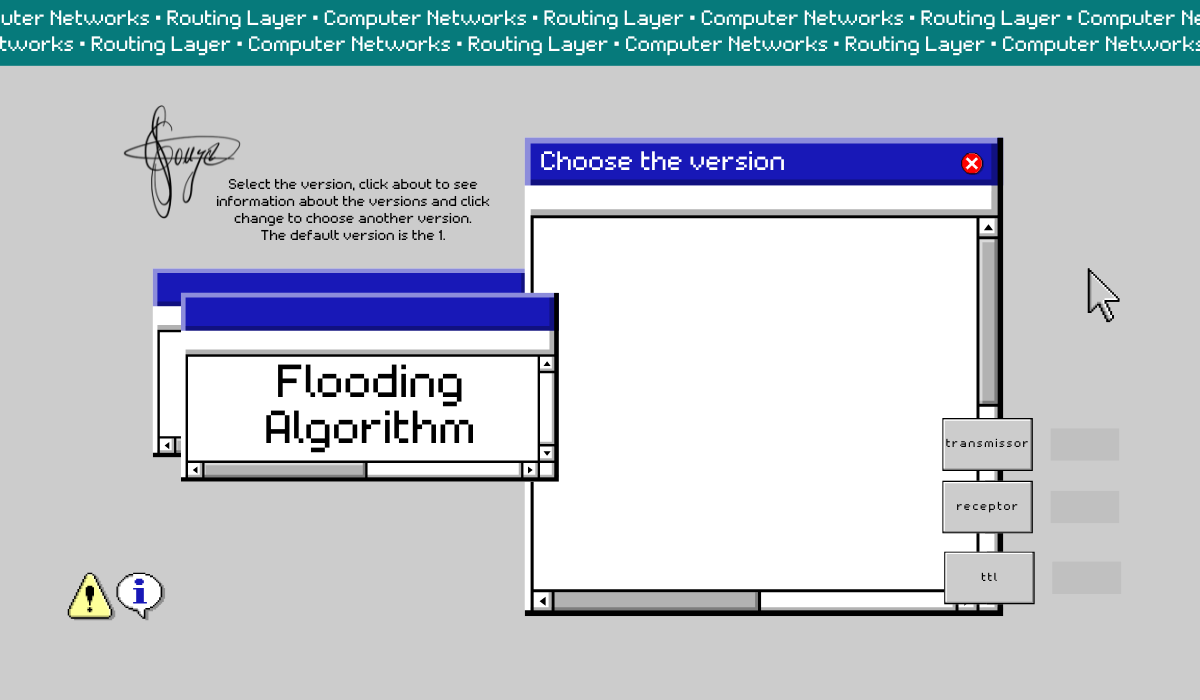
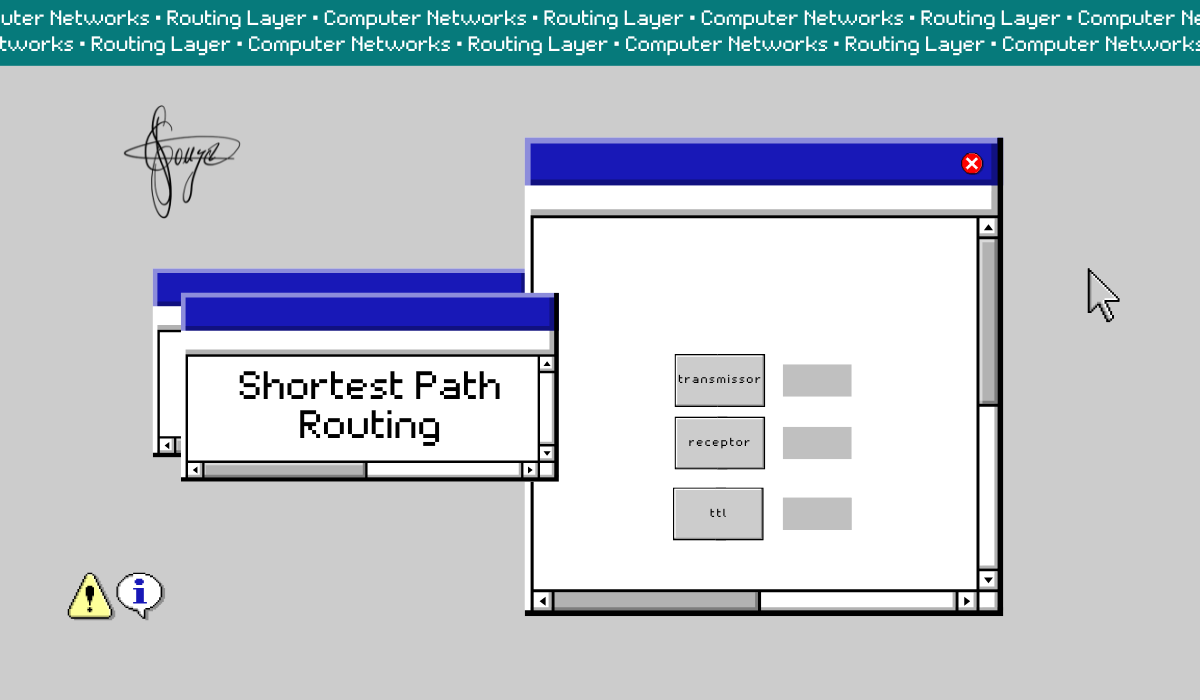
changes in the game view

diff --git a/view/GameView.java b/view/GameView.java
@@ -70,13 +70,35 @@ import controller.GameController;
 import controller.MenuController;
 import util.TopologyReader;
 
+
+/*a_label (109.1, 297.9)
+b_label (234.4, 156.2)
+c_label (910.5, 156.2)
+d_label (1030.9, 287.9)
+e_label (347.1, 287.9)
+f_label (784.6, 287.9)
+g_label (232.8, 432.1)
+h_label (910.5, 423.1)
+
+ab_label (70.0, 161.4)
+bc_label (570.0, 56.6)
+ag_label (70.0, 445.6)
+ge_label (411.6, 423.1)
+be_label (411.6, 174.3)
+gh_label (570.0, 520.7)
+dh_label (1070.1, 445.6)
+cd_label (1070.1, 161.4)
+fe_label (570.0, 228.9)
+fh_label (746.5, 423.1)
+fc_label (743.2, 174.3)*/
+
 public class GameView extends BaseView {
 
   private ImageView router1, router2, router3, router4, router5, router6, router7, router8; // UI Network Endpoints
   private Button startButton, changeButton;                                                 // UI Controls
   private TextArea packetCounterBox;                                                        // UI Monitor box
-  private TextArea router1Label, router2Label, router3Label, router4Label, router5Label, router6Label, router7Label, router8Label;
-  private TextArea linkLabel;
+  private Label router1Label, router2Label, router3Label, router4Label, router5Label, router6Label, router7Label, router8Label;
+  private Label link1Label, link2Label, link3Label, link4Label, link5Label, link6Label, link7Label, link8Label, link9Label, link10Label, link11Label;
 
   /*********************************************************************
    * Method: GameView
@@ -100,35 +122,42 @@ public class GameView extends BaseView {
     router1 = createImageViewElement("/router_icon.png", 63.1, 80.2);
     applyPosition(router1, 38.5, 262.1);
     addElementTo(router1, layout);
-
+    router1Label = createLabel(59.9, 22.5, 109.1, 297.9);
 
     router2 = createImageViewElement("/router_icon.png", 63.1, 80.2);
     applyPosition(router2, 229.6, 70.0);
     addElementTo(router2, layout);
+    router2Label = createLabel(59.9, 22.5, 234.4, 156.2);
 
     router3 = createImageViewElement("/router_icon.png", 63.1, 80.2);
     applyPosition(router3, 907.3, 70.0);
     addElementTo(router3, layout);
+    router3Label = createLabel(59.9, 22.5, 910.5, 156.2);
 
     router4 = createImageViewElement("/router_icon.png", 63.1, 80.2);
     applyPosition(router4, 1098.4, 262.1);
     addElementTo(router4, layout);
+    router4Label = createLabel(59.9, 22.5, 1030.9, 287.9);
 
     router5 = createImageViewElement("/router_icon.png", 63.1, 80.2);
     applyPosition(router5, 420.7, 261.1);
     addElementTo(router5, layout);
+    router5Label = createLabel(59.9, 22.5, 347.1, 287.9);
 
     router6 = createImageViewElement("/router_icon.png", 63.1, 80.2);
     applyPosition(router6, 716.2, 261.1);
     addElementTo(router6, layout);
+    router6Label = createLabel(59.9, 22.5, 784.6, 287.9);
 
     router7 = createImageViewElement("/router_icon.png", 63.1, 80.2);
     applyPosition(router7, 232.8, 452.4);
     addElementTo(router7, layout);
+    router7Label = createLabel(59.9, 22.5, 232.8, 432.1);
 
     router8 = createImageViewElement("/router_icon.png", 63.1, 80.2);
     applyPosition(router8, 910.5, 452.4);
     addElementTo(router8, layout);
+    router8Label = createLabel(59.9, 22.5, 910.5, 423.1);
 
     startButton = createButton("/start_button.png", 182.3, 39.3, 638.3, 627.3);
     addElementTo(startButton, layout);
@@ -143,6 +172,17 @@ public class GameView extends BaseView {
     applyPosition(packetCounterBox, 508.0, 623.0);
     addElementTo(packetCounterBox, layout);
 
+    link1Label = createLabel("[∞, -]", 59.9, 22.5, 70.0, 161.4);
+    link2Label = createLabel("[∞, -]", 59.9, 22.5, 570.0, 56.6);    // bc_label
+    link3Label = createLabel("[∞, -]", 59.9, 22.5, 70.0, 445.6);    // ag_label
+    link4Label = createLabel("[∞, -]",59.9, 22.5, 411.6, 423.1);   // ge_label
+    link5Label = createLabel("[∞, -]",59.9, 22.5, 411.6, 174.3);   // be_label
+    link6Label = createLabel("[∞, -]",59.9, 22.5, 570.0, 520.7);   // gh_label
+    link7Label = createLabel("[∞, -]",59.9, 22.5, 1070.1, 445.6);  // dh_label
+    link8Label = createLabel("[∞, -]",59.9, 22.5, 1070.1, 161.4);  // cd_label
+    link9Label = createLabel("[∞, -]",59.9, 22.5, 570.0, 228.9);   // fe_label
+    link10Label = createLabel("[∞, -]",59.9, 22.5, 746.5, 423.1);  // fh_label
+    link11Label = createLabel("[∞, -]",59.9, 22.5, 743.2, 174.3);  // fc_label
   }
 
   /*********************************************************************

diff --git a/controller/MenuController.java b/controller/MenuController.java
@@ -98,47 +98,6 @@ public class MenuController extends BaseController {
   @Override
   protected void setupInteractions() {
 
-    view.getVersionOneButton().setOnAction(e -> selectVersion(1));
-    view.getVersionTwoButton().setOnAction(e -> selectVersion(2));
-    view.getVersionThreeButton().setOnAction(e -> selectVersion(3));
-    view.getVersionFourButton().setOnAction(e -> selectVersion(4));
-
-    view.getChangeButton().setOnAction(e -> {
-      view.getVersionOneButton().setVisible(true);
-      view.getVersionTwoButton().setVisible(true);
-      view.getVersionThreeButton().setVisible(true);
-      view.getVersionFourButton().setVisible(true);
-      this.selectedVersion = 1;
-    });
-
-    view.getAboutButton().setOnAction(e -> {
-      Alert alert = new Alert(Alert.AlertType.INFORMATION);
-      alert.setTitle("About Algorithm");
-      alert.setHeaderText("Algorithm Version " + selectedVersion);
-
-      String description = "";
-
-      switch (selectedVersion) {
-        case 1:
-          description = "Each packet that arrives in a router is sent to every network interface of this router.";
-          break;
-        case 2:
-          description = "Each packet that arrives in a router is sent to every network interface of this router but the one that it arrived from.";
-          break;
-        case 3:
-          description = "Each packet that arrives in a router is sent to every network interface of this router but the one that it arrived from. And each router checks the TTL to decide if the packet should be send forward.";
-          break;
-        case 4:
-          description = "The source router puts a sequence number in each packet and each router has a list per source router telling which sequence numbers originating at that source have already been seen.\n" +
-            "When a packet comes in, the router checks it on the list, if it finds, it is not flooded and is discarded, if not, it is flooded.";
-          break;
-      }
-
-      alert.setContentText(description);
-      alert.getDialogPane().setMinHeight(Region.USE_PREF_SIZE);
-      alert.showAndWait();
-    });
-
     view.getStartButton().setOnAction(e -> {
       try {
         int transmitterId = view.getTransmissorChoiceBox().getValue();
@@ -155,7 +114,7 @@ public class MenuController extends BaseController {
         }
 
         int ttl = Integer.parseInt(view.getTtlInput().getText());
-        setInterface(new GameController(stage, transmitterId, receptorId, ttl, topology, selectedVersion).getView());
+        setInterface(new GameController(stage, transmitterId, receptorId, ttl, topology).getView());
 
       } catch (NumberFormatException ex) {
         System.out.println("Invalid TTL entered. Defaulting to 10.");
@@ -166,23 +125,9 @@ public class MenuController extends BaseController {
           return;
         }
 
-        setInterface(new GameController(stage, transmitterId, receptorId, 10, topology, selectedVersion).getView());
+        setInterface(new GameController(stage, transmitterId, receptorId, 10, topology).getView());
       }
     });
-  }
-
-  /*********************************************************************
-   * Method: selectVersion
-   * Function: updates internal version state and hides unselected buttons.
-   * Parameters: version is the chosen algorithm integer.
-   * Return: void
-   ******************************************************************* */
-  private void selectVersion(int version) {
-    this.selectedVersion = version;
-    view.getVersionOneButton().setVisible(version == 1);
-    view.getVersionTwoButton().setVisible(version == 2);
-    view.getVersionThreeButton().setVisible(version == 3);
-    view.getVersionFourButton().setVisible(version == 4);
   }
 
   /*********************************************************************

diff --git a/view/MenuView.java b/view/MenuView.java
@@ -72,8 +72,7 @@ import util.TopologyReader;
 
 public class MenuView extends BaseView {
 
-  private Button startButton, changeButton, aboutButton;                              // Basic interaction controls
-  private Button versionOneButton, versionTwoButton, versionThreeButton, versionFourButton; // Algorithm selection
+  private Button startButton;                                                         // Basic interaction controls
   private ChoiceBox<Integer> transmissorChoiceBox, receptorChoiceBox;                 // Origin and Destination inputs
   private ObservableList<Integer> routersLabels = FXCollections.observableArrayList(1, 2, 3, 4, 5, 6, 7, 8); // Selections
   private TextField ttlInput;                                                         // Custom time allowance
@@ -96,50 +95,27 @@ public class MenuView extends BaseView {
    * Return: void
    ******************************************************************* */
   private void setInterfaceElements(){
-    startButton = createButton("start_button.png", 182.3, 50.4, 937.1, 192.5);
+    startButton = createButton("start_button.png", 182.3, 50.4, 672.9, 272.9);
     addElementTo(startButton, layout);
 
-    changeButton = createButton("change_button.png", 182.3, 39.4, 937.1, 360.9);
-    addElementTo(changeButton, layout);
-
-    aboutButton = createButton("about_button.png", 192.3, 39.4, 937.1, 283.4);
-    addElementTo(aboutButton, layout);
-
     transmissorChoiceBox = createIntegerChoiceBox(routersLabels, 69.0, 39.4);
-    applyPosition(transmissorChoiceBox, 1050.4, 428.3);
+    applyPosition(transmissorChoiceBox, 782.8, 364.3);
     addElementTo(transmissorChoiceBox, layout);
 
     receptorChoiceBox = createIntegerChoiceBox(routersLabels, 69.0, 39.4);
-    applyPosition(receptorChoiceBox, 1050.4, 490.8);
+    applyPosition(receptorChoiceBox, 782.8, 426.8);
     addElementTo(receptorChoiceBox, layout);
 
     ttlInput = createTextField("10", 69.0, 32.5);
-    applyPosition(ttlInput, 1052.3, 561.6);
+    applyPosition(ttlInput, 782.8, 497.5);
     addElementTo(ttlInput, layout);
 
-    versionOneButton = createButton("/version_one_icon.png", 124.0,119.1, 610.0, 256.8);
-    addElementTo(versionOneButton, layout);
-
-    versionTwoButton = createButton("/version_two_icon.png", 124.0, 108.2, 777.8, 268.4);
-    addElementTo(versionTwoButton, layout);
-
-    versionThreeButton = createButton("/version_three_icon.png", 124.0, 113.7, 610.0, 415.2);
-    addElementTo(versionThreeButton, layout);
-
-    versionFourButton = createButton("/version_four_icon.png", 124.0, 113.7, 777.8, 415.2);
-    addElementTo(versionFourButton, layout);
   }
 
   // Getters Section
   public Button getStartButton(){ return startButton; }
-  public Button getChangeButton(){ return changeButton; }
-  public Button getAboutButton(){ return aboutButton; }
   public TextField getTtlInput() { return ttlInput; }
   public ChoiceBox<Integer> getTransmissorChoiceBox() { return transmissorChoiceBox; }
   public ChoiceBox<Integer> getReceptorChoiceBox() { return receptorChoiceBox; }
   public ObservableList<Integer> getRoutersLabels() { return routersLabels; }
-  public Button getVersionOneButton() { return versionOneButton; }
-  public Button getVersionTwoButton() { return versionTwoButton; }
-  public Button getVersionThreeButton() { return versionThreeButton; }
-  public Button getVersionFourButton() { return versionFourButton; }
 }

diff --git a/controller/GameController.java b/controller/GameController.java
@@ -78,8 +78,6 @@ public class GameController extends BaseController implements PropertyChangeList
   private final int transmissionRouterId;     // Source node origin
   private final int receiverRouterId;         // Final destination node
   private final int ttl;                      // Packet lifetime configuration
-  private final int selectedVersion;          // Chosen algorithm version
-
   /*********************************************************************
    * Method: GameController
    * Function: constructor for the game controller.
@@ -87,16 +85,14 @@ public class GameController extends BaseController implements PropertyChangeList
    * ........... selectedTtl is time limit, topology is graph, selectedVersion.
    * Return: object of a GameController
    ******************************************************************* */
-  public GameController(Stage stage, int tId, int rId, int selectedTtl, NetworkTopology topology, int selectedVersion) {
+  public GameController(Stage stage, int tId, int rId, int selectedTtl, NetworkTopology topology) {
     super(stage);
     this.view = new GameView();
     this.topology = topology;
     this.transmissionRouterId = tId;
     this.receiverRouterId = rId;
     this.ttl = selectedTtl;
-    this.selectedVersion = selectedVersion;
-
-    this.network = new Network(topology.getNumRouters(), topology.getNodes(), this.selectedVersion);
+    this.network = new Network(topology.getNumRouters(), topology.getNodes());
 
     configureNetwork(this.network);
     setupInteractions();
@@ -160,17 +156,13 @@ public class GameController extends BaseController implements PropertyChangeList
     ImageView packet = view.createNewPacket(routerK.getLayoutX(), routerK.getLayoutY());
     Label ttlLabel;
 
-    if(this.selectedVersion == 1 || this.selectedVersion == 2){
-      ttlLabel = new Label("");
-    } else {
-      ttlLabel = new Label("TTL: " + ttlText);
-    }
+    ttlLabel = new Label("TTL: " + ttlText);
 
     ttlLabel.setStyle("-fx-text-fill: black; -fx-font-weight: bold; -fx-font-size: 14px;");
     ttlLabel.setLayoutX(routerK.getLayoutX());
     ttlLabel.setLayoutY(routerK.getLayoutY() + 30);
 
-    Pane parentPane = (javafx.scene.layout.Pane) packet.getParent();
+    Pane parentPane = (Pane) packet.getParent();
     parentPane.getChildren().add(ttlLabel);
 
     view.bringRoutersToFront();
@@ -189,6 +181,10 @@ public class GameController extends BaseController implements PropertyChangeList
     });
 
     timeline.play();
+  }
+
+  private void changeLinkLabel(){
+
   }
 
   /*********************************************************************

diff --git a/view/BaseView.java b/view/BaseView.java
@@ -225,6 +225,26 @@ public abstract class BaseView {
     return text;
   }
 
+  protected Label createLabel(double width, double height, double x, double y) {
+    Label label = new Label();
+    label.setPrefWidth(width);
+    label.setPrefHeight(height);
+    label.setStyle("-fx-text-fill: white; -fx-background-color: #2c3e50; -fx-alignment: center; -fx-font-weight: bold; -fx-font-size: 12px; -fx-background-radius: 5px; -fx-border-color: black; -fx-border-radius: 5px;");
+    applyPosition(label, x, y);
+    addElementTo(label, layout);
+    return label;
+  }
+
+  protected Label createLabel(String text, double width, double height, double x, double y) {
+    Label label = new Label(text);
+    label.setPrefWidth(width);
+    label.setPrefHeight(height);
+    label.setStyle("-fx-text-fill: white; -fx-background-color: #2c3e50; -fx-alignment: center; -fx-font-weight: bold; -fx-font-size: 12px; -fx-background-radius: 5px; -fx-border-color: black; -fx-border-radius: 5px;");
+    applyPosition(label, x, y);
+    addElementTo(label, layout);
+    return label;
+  }
+
   /*********************************************************************
    * Method: applyPosition
    * Function: anchors an element layout.

diff --git a/model/Network.java b/model/Network.java
@@ -87,8 +87,8 @@ public class Network implements Runnable{
    * ........... selectedVersion is the routing algorithm.
    * Return: object of a Network
    ******************************************************************* */
-  public Network(int routersAmount, int[][] nodes, int selectedVersion){
-    this.routers = configureRouters(routersAmount, selectedVersion);
+  public Network(int routersAmount, int[][] nodes){
+    this.routers = configureRouters(routersAmount);
     this.links = estabilishLinks(nodes);
   }
 
@@ -165,11 +165,11 @@ public class Network implements Runnable{
    * Parameters: amount is total routers, selectedVersion is algorithm.
    * Return: List of instantiated routers
    ******************************************************************* */
-  private List<Router> configureRouters(int amount, int selectedVersion){
+  private List<Router> configureRouters(int amount){
     List<Router> initializedRouters = new ArrayList<>();
 
     for(int i = 0; i < amount ; i++){
-      Router r = new Router(i + 1, selectedVersion);
+      Router r = new Router(i + 1);
       initializedRouters.add(r);
 
       Thread t = new Thread(r);

diff --git a/model/Router.java b/model/Router.java
@@ -74,7 +74,6 @@ import util.TopologyReader;
 public class Router implements Runnable {
 
   private final int id;                                            // Router's unique identifier
-  private final int selectedVersion;                               // Selected flooding algorithm version
   private final PropertyChangeSupport support;                     // Support for UI property change events
   private final List<Link> links;                                  // List of connected network links
   private final BlockingQueue<Packet> inbox;                       // Thread-safe queue for incoming packets
@@ -88,9 +87,8 @@ public class Router implements Runnable {
    * ........... algorithm chosen.
    * Return: object of a Router
    ******************************************************************* */
-  public Router(int id, int selectedVersion){
+  public Router(int id){
     this.id = id;
-    this.selectedVersion = selectedVersion;
     this.links = new ArrayList<>();
     this.inbox = new LinkedBlockingQueue<>();
     this.support = new PropertyChangeSupport(this);
